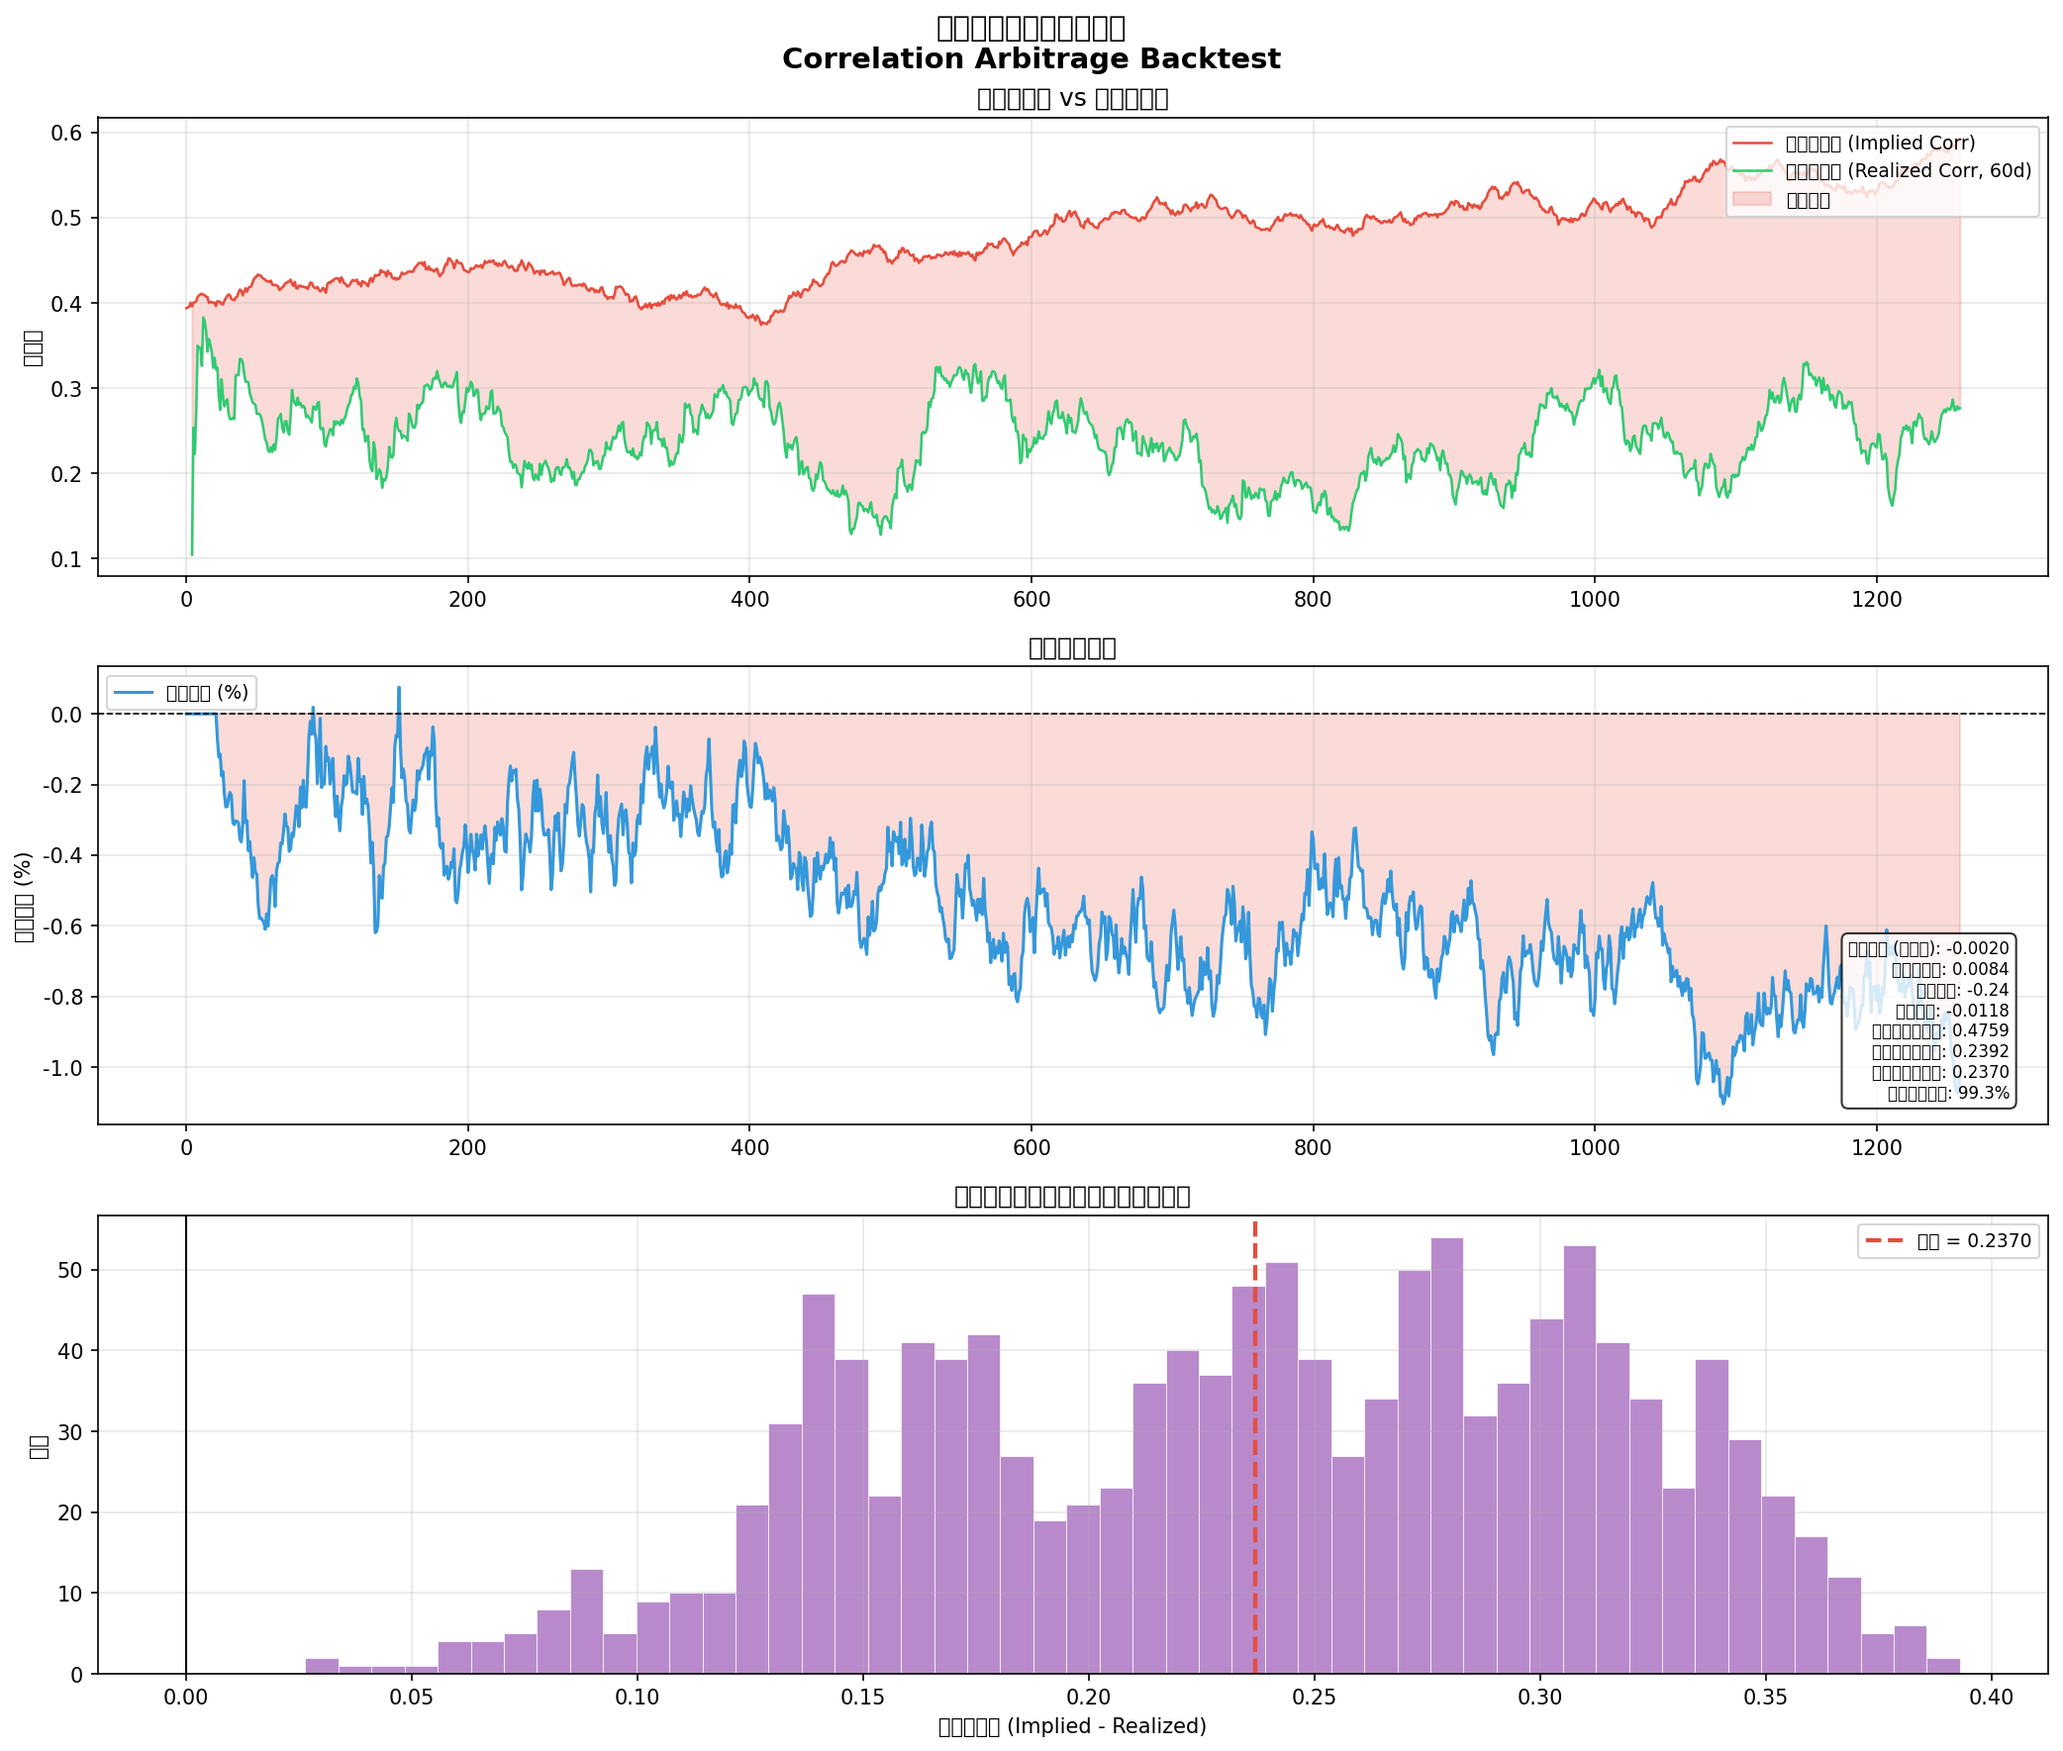
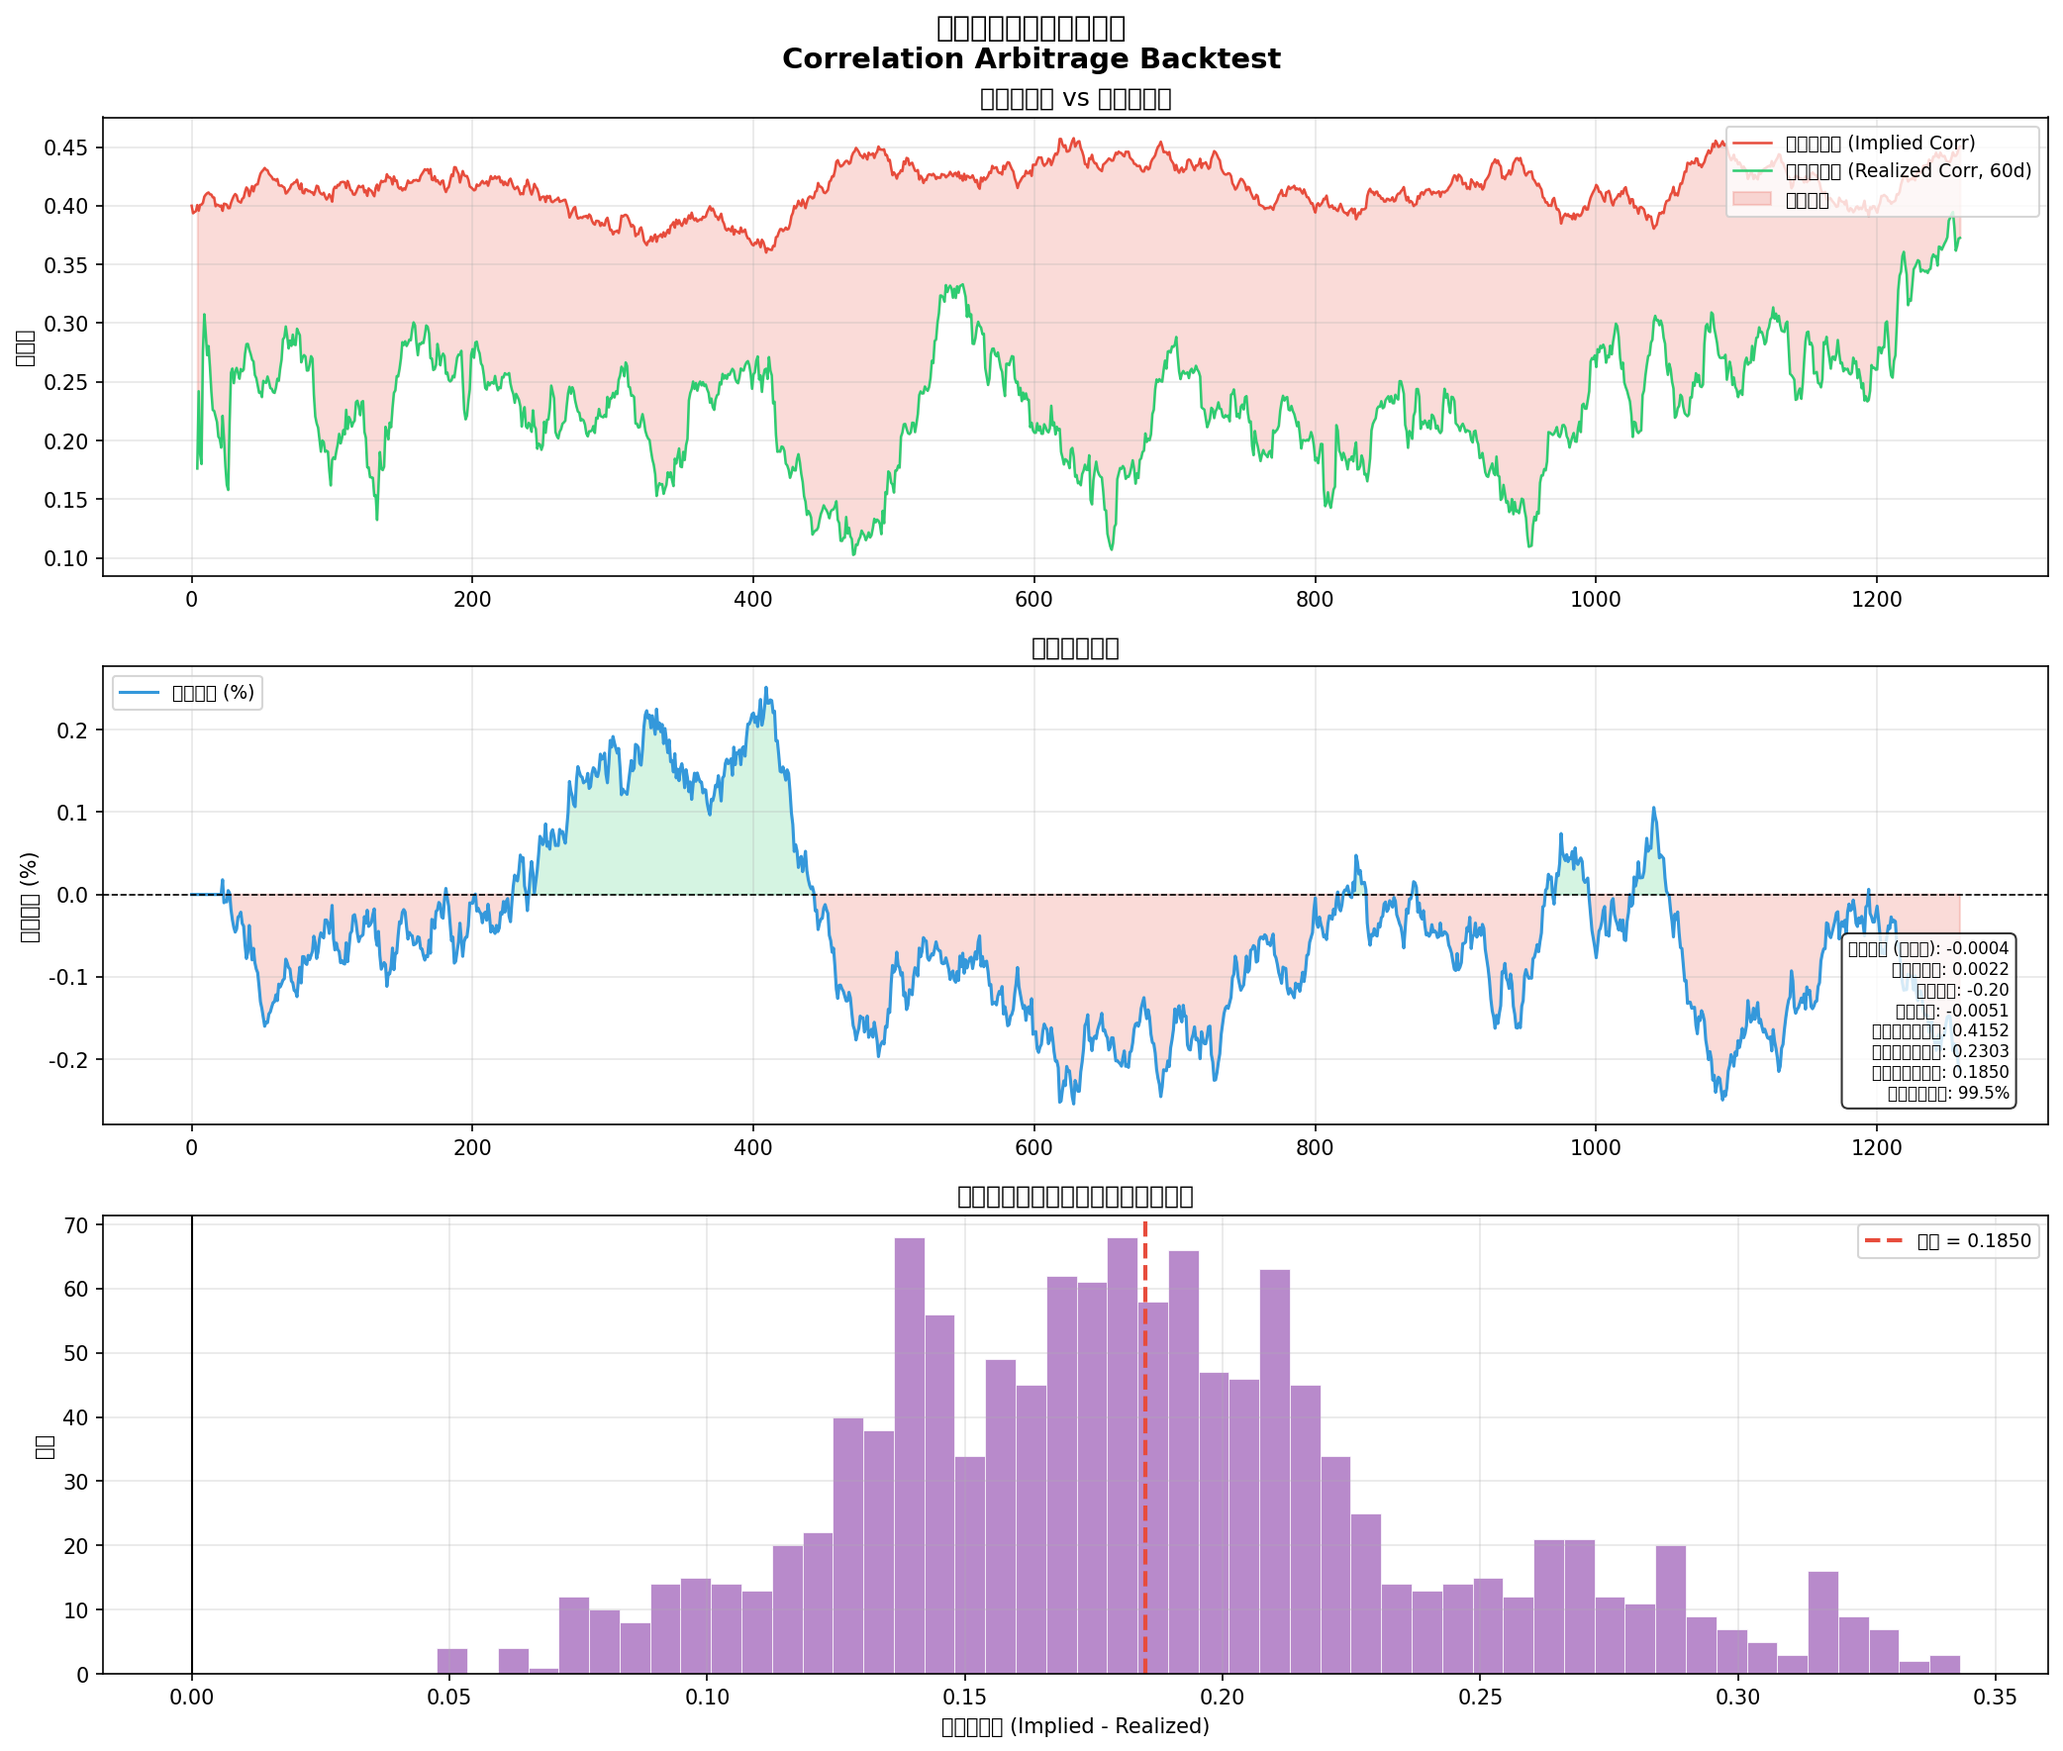
Fix implied corr simulation and add OU process
Replace random-walk cumsum with Ornstein-Uhlenbeck mean-reverting process
for implied correlation path, matching real market behavior. Also fix
daily vol scaling (multiply noise by sqrt(dt)) in simulate_implied_vols,
and remove dead code in vega-neutral position assignment.

https://claude.ai/code/session_01QKuwSNMdxu67NTvxkTSKNx

diff --git a/correlation_arbitrage.py b/correlation_arbitrage.py
@@ -197,15 +197,43 @@ def simulate_implied_vols(
     vol_of_vol: float = 0.02,
     mean_reversion: float = 0.1,
 ) -> np.ndarray:
-    """模拟隐含波动率时间序列（均值回归过程）"""
+    """模拟个股隐含波动率时间序列（OU 均值回归过程）"""
+    dt = 1 / 252
     n = len(base_vols)
     iv_paths = np.zeros((T, n))
     iv_paths[0] = base_vols
     for t in range(1, T):
-        noise = np.random.randn(n) * vol_of_vol
-        iv_paths[t] = iv_paths[t - 1] + mean_reversion * (base_vols - iv_paths[t - 1]) + noise
+        noise = np.random.randn(n) * vol_of_vol * np.sqrt(dt)
+        iv_paths[t] = (iv_paths[t - 1]
+                       + mean_reversion * (base_vols - iv_paths[t - 1]) * dt
+                       + noise)
         iv_paths[t] = np.clip(iv_paths[t], 0.05, 1.5)
     return iv_paths
+
+
+def simulate_implied_corr_ou(
+    T: int,
+    mu: float,
+    theta_speed: float = 2.0,
+    sigma_vol: float = 0.05,
+) -> np.ndarray:
+    """
+    用 Ornstein-Uhlenbeck 过程模拟隐含相关性路径
+
+    dρ = θ(μ - ρ)dt + σ dW
+
+    参数:
+        mu          : 长期均值（真实相关性 + 溢价）
+        theta_speed : 均值回归速度（越大回归越快）
+        sigma_vol   : 相关性波动率
+    """
+    dt = 1 / 252
+    path = np.zeros(T)
+    path[0] = mu
+    for t in range(1, T):
+        dW = np.random.randn() * np.sqrt(dt)
+        path[t] = path[t - 1] + theta_speed * (mu - path[t - 1]) * dt + sigma_vol * dW
+    return np.clip(path, 0.05, 0.95)
 
 
 def run_backtest(params: MarketParams, seed: int = 42) -> pd.DataFrame:
@@ -232,11 +260,10 @@ def run_backtest(params: MarketParams, seed: int = 42) -> pd.DataFrame:
     # 模拟个股隐含波动率序列
     stock_iv_paths = simulate_implied_vols(stock_base_ivs, params.T_days)
 
-    # 由隐含相关性 + 个股 IV 推算指数 IV（使隐含相关性 = 真实 + 溢价）
-    implied_corr_path = np.clip(
-        params.true_corr + params.implied_corr_premium
-        + np.cumsum(np.random.normal(0, 0.003, params.T_days)),
-        0.05, 0.95
+    # 用 OU 过程模拟隐含相关性（均值回归到 true_corr + premium）
+    mu_implied = params.true_corr + params.implied_corr_premium
+    implied_corr_path = simulate_implied_corr_ou(
+        params.T_days, mu=mu_implied, theta_speed=2.0, sigma_vol=0.05
     )
     index_iv_path = np.array([
         np.sqrt(
@@ -298,10 +325,9 @@ def run_backtest(params: MarketParams, seed: int = 42) -> pd.DataFrame:
             # 开仓条件：相关性溢价 > 5%
             if not np.isnan(corr_gap) and corr_gap > 0.05:
                 pos_idx_vega = iv_idx
-                # 每只股票分配的 vega = w_i * idx_vega
-                pos_stk_vega = weights * iv_idx / (iv_stk + 1e-12) * iv_stk
-                # 即 pos_stk_vega[i] = weights[i] * idx_vega（vega 等量分配）
-                pos_stk_vega = weights * iv_idx
+                # 每只股票的 vega 贡献 = w_i * idx_vega（按权重分配指数 vega）
+                # 买入份数 = (w_i * idx_vega) / stk_vega_per_unit，但 PnL 以 vega 计
+                pos_stk_vega = weights * iv_idx  # 各股票 vega 分配量
             else:
                 pos_idx_vega = 0.0
                 pos_stk_vega = np.zeros(params.n_stocks)
